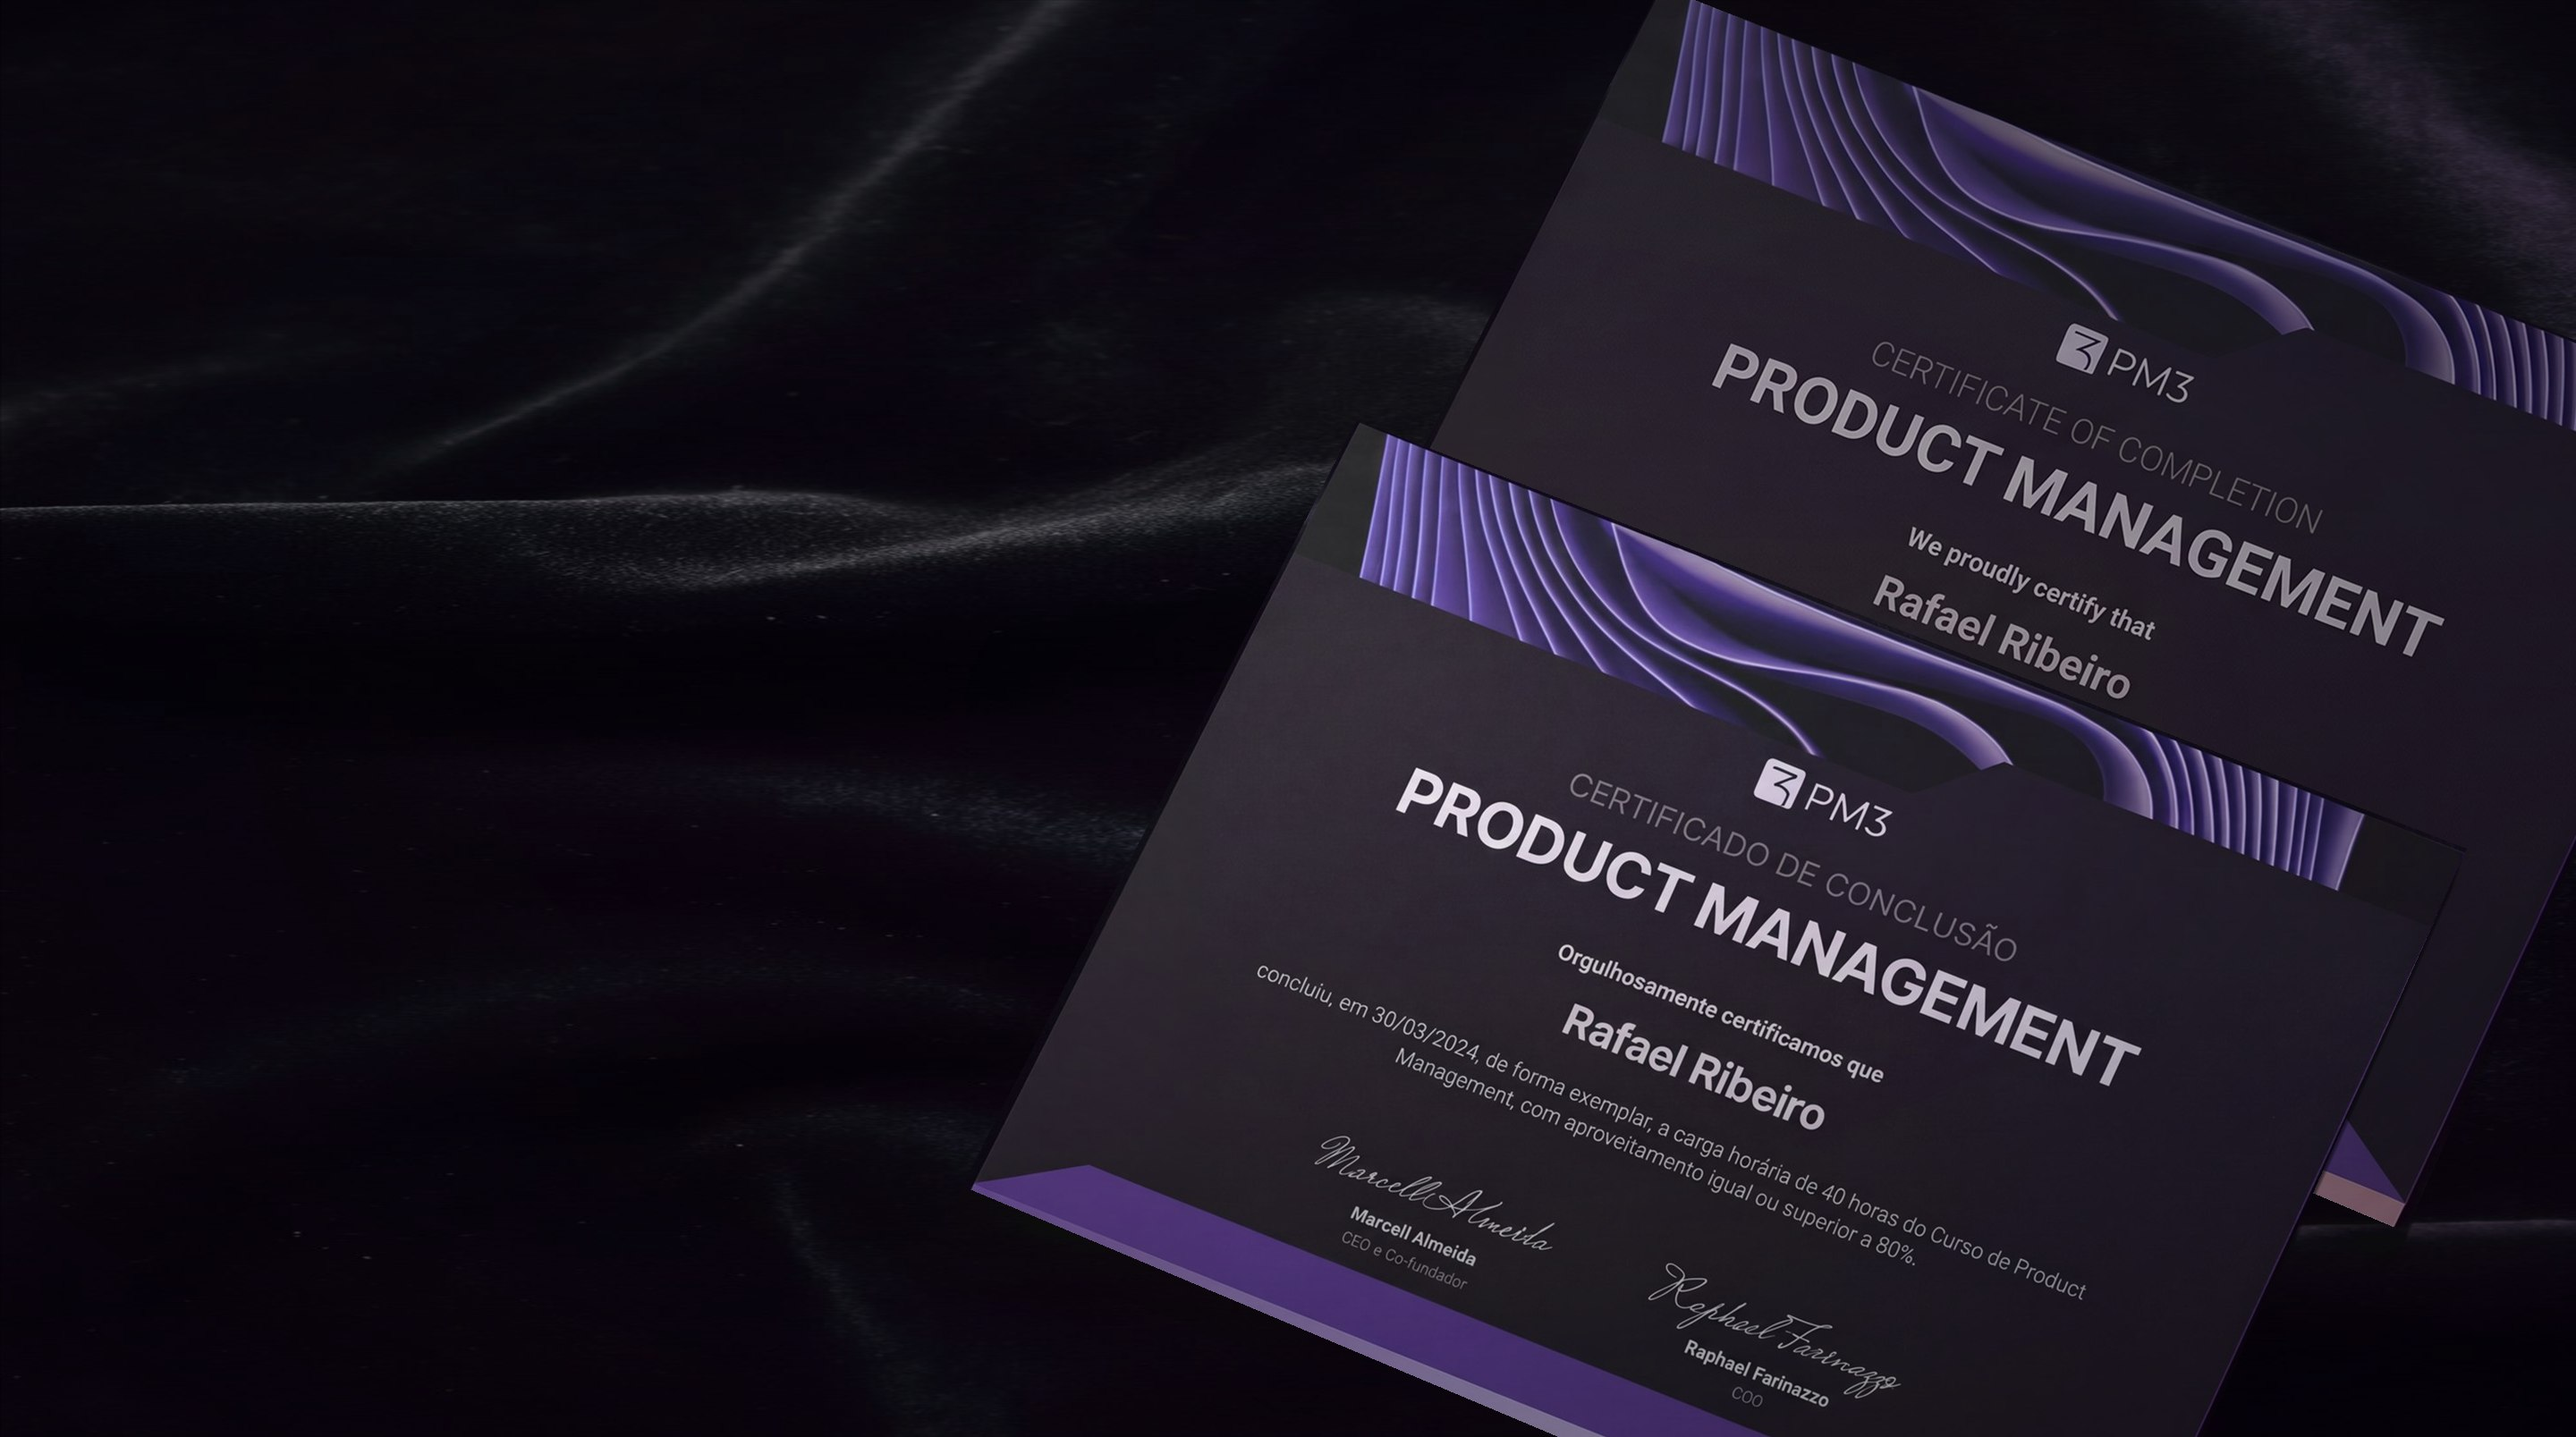
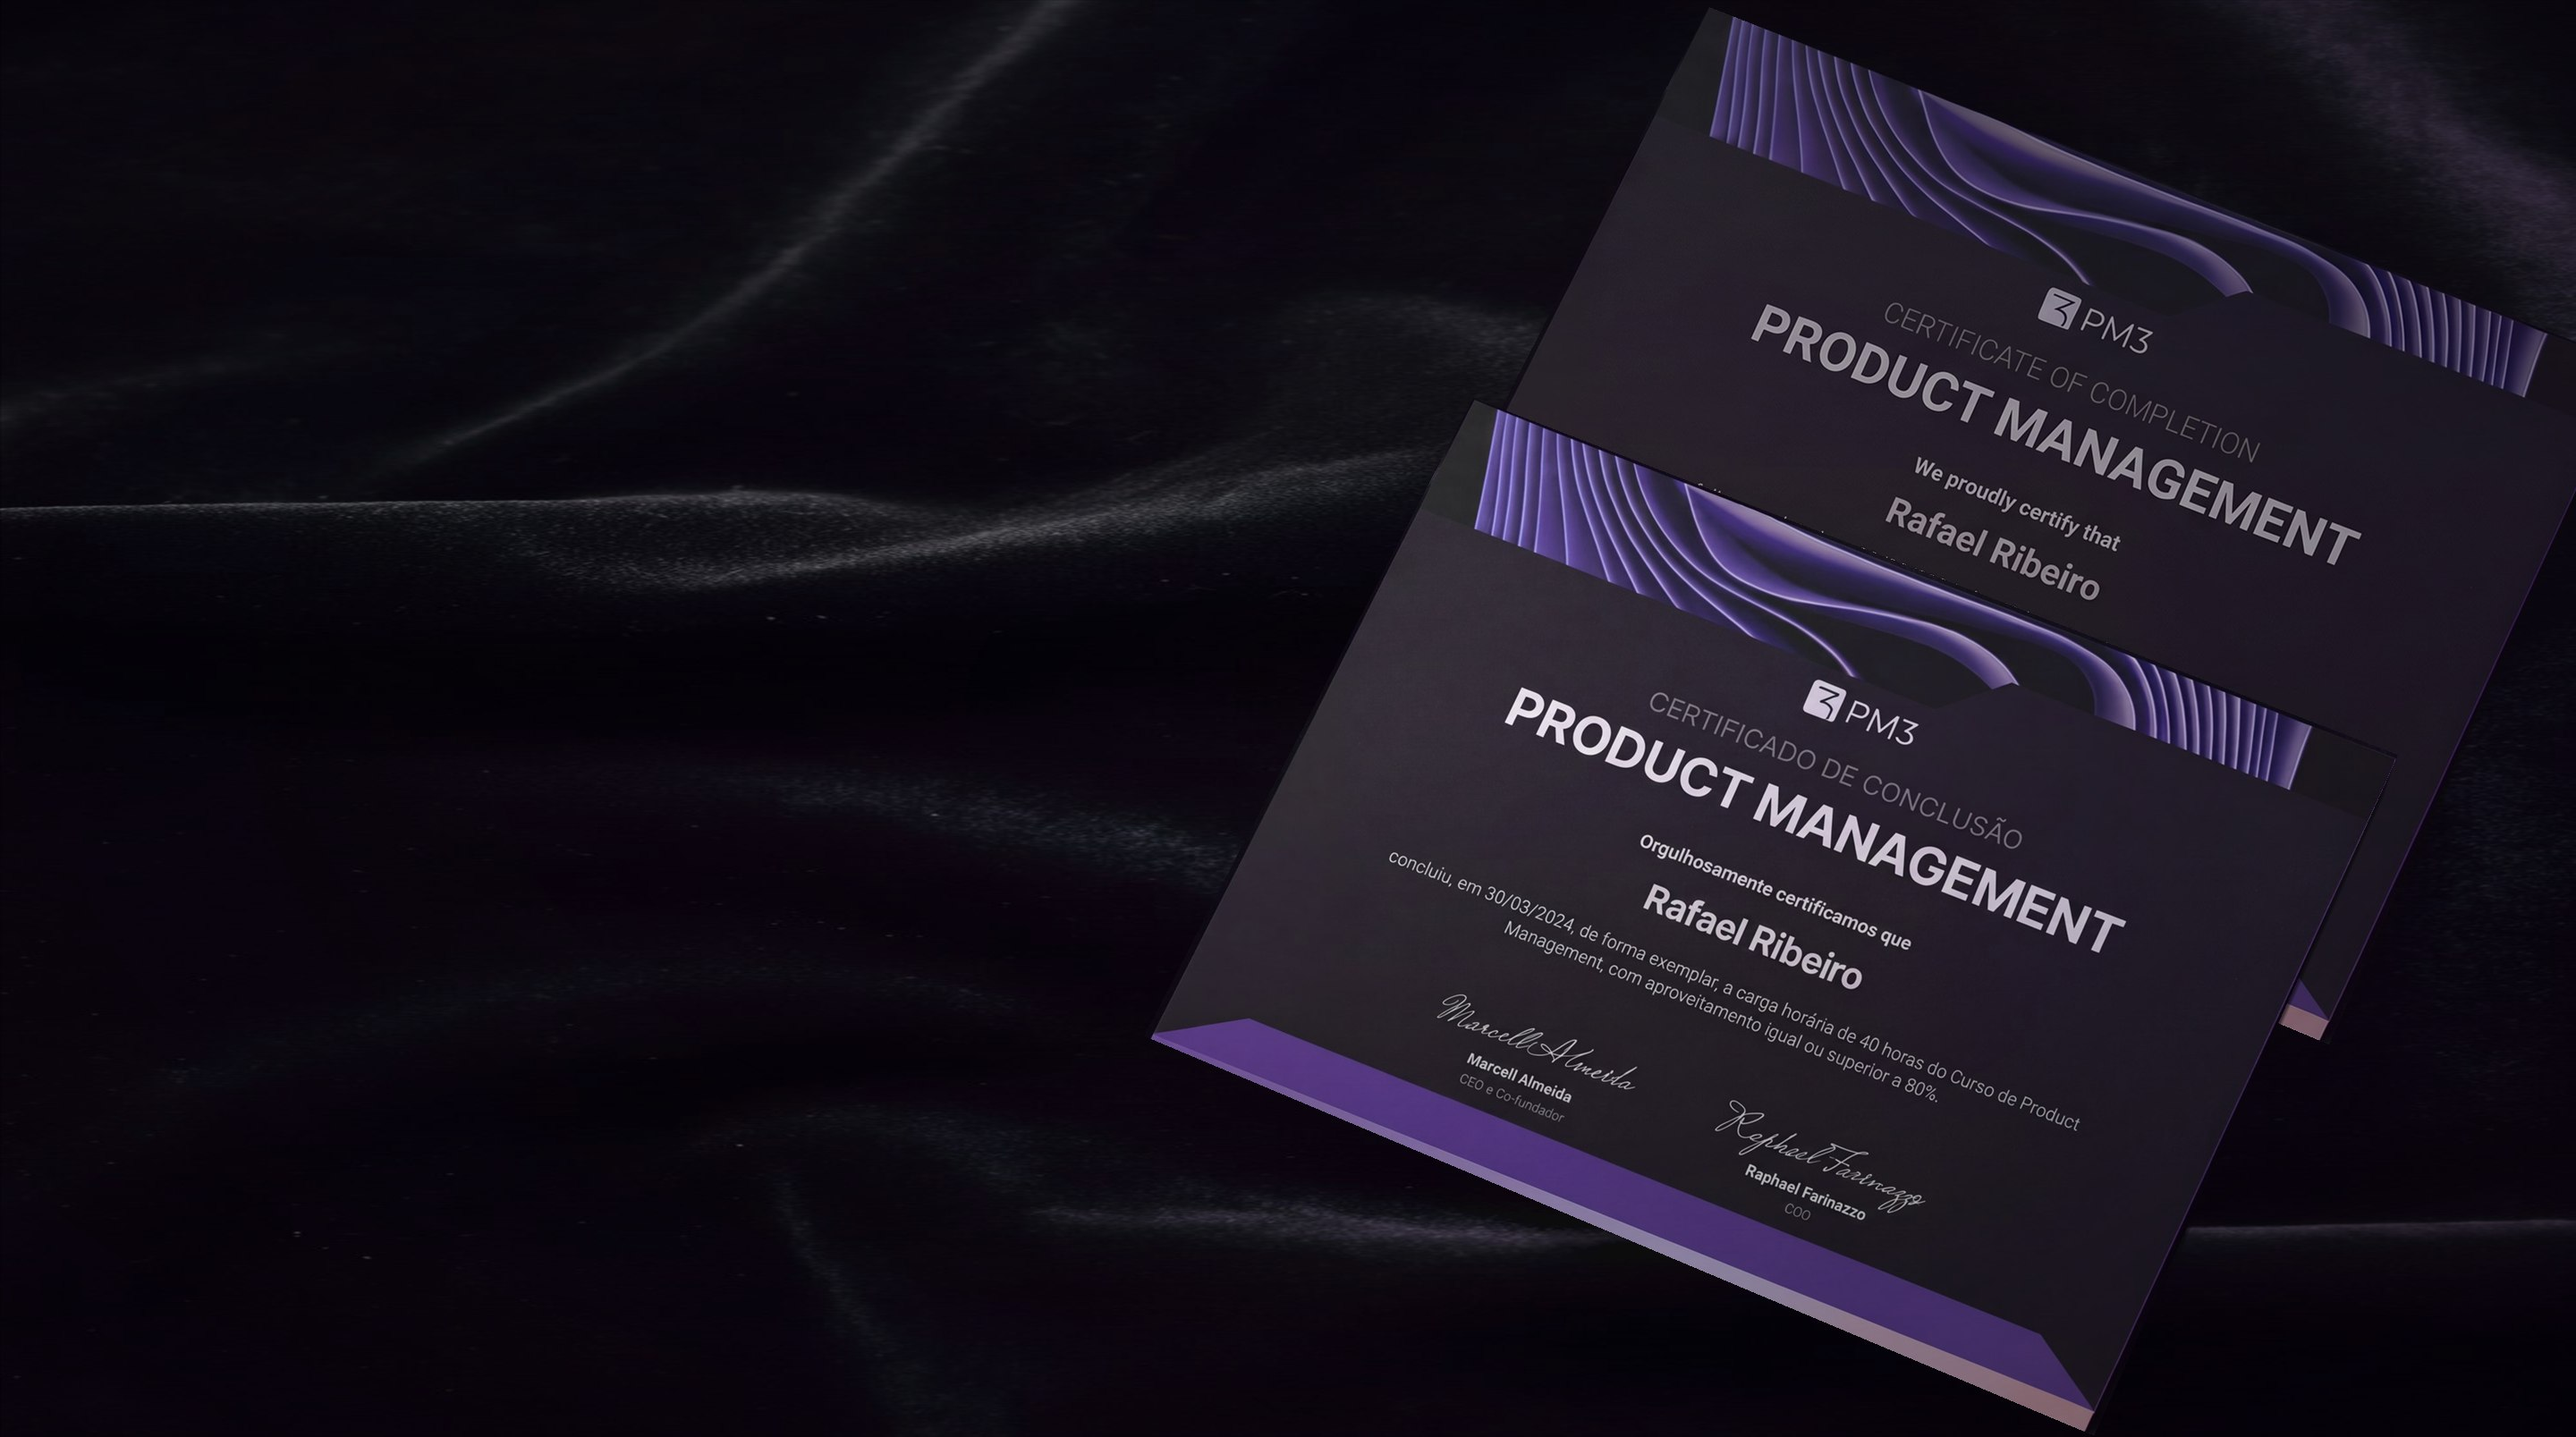
Certificado: enquadramento intermediário, os dois certificados inteiros e legíveis

diff --git a/home.html b/home.html
@@ -191,7 +191,7 @@
 
 <!-- 5 · CERTIFICADO (certificado.css, a mesma dobra do Membership) -->
 <section class="cx-sec on-dark" aria-labelledby="ce-t">
-  <div class="cx-hero cx-var cx-troca" id="cxTroca" style="--cert-full:url('../img/certificado-duo-pm.jpg?v=2');--cert-crop:url('../img/certificado-duo-pm-crop.jpg?v=2')" data-nota="Mockup do certificado de Product Management em português (frente) e inglês (atrás), montado a partir das artes reais.">
+  <div class="cx-hero cx-var cx-troca" id="cxTroca" style="--cert-full:url('../img/certificado-duo-pm.jpg?v=3');--cert-crop:url('../img/certificado-duo-pm-crop.jpg?v=3')" data-nota="Mockup do certificado de Product Management em português (frente) e inglês (atrás), montado a partir das artes reais.">
     <div class="wrap">
       <div class="cx-copy">
         <p class="kicker">Certificado PM3</p>

diff --git a/formacao-ai-product-builder.html b/formacao-ai-product-builder.html
@@ -247,7 +247,7 @@
 
 <!-- 7 · CERTIFICADO -->
 <section class="cx-sec on-dark" id="certificado" aria-labelledby="ce-t">
-  <div class="cx-hero cx-var" style="--cert-full:url('../img/certificado-duo-aipb.jpg?v=2');--cert-crop:url('../img/certificado-duo-aipb-crop.jpg?v=2')" data-nota="Mockup do certificado desta formação, em português (frente) e inglês (atrás).">
+  <div class="cx-hero cx-var" style="--cert-full:url('../img/certificado-duo-aipb.jpg?v=3');--cert-crop:url('../img/certificado-duo-aipb-crop.jpg?v=3')" data-nota="Mockup do certificado desta formação, em português (frente) e inglês (atrás).">
     <div class="wrap">
       <div class="cx-copy">
         <p class="kicker"><span class="n">06</span> Certificado</p>

diff --git a/formacao-ai-product-specialist.html b/formacao-ai-product-specialist.html
@@ -245,7 +245,7 @@
 
 <!-- 7 · CERTIFICADO -->
 <section class="cx-sec on-dark" id="certificado" aria-labelledby="ce-t">
-  <div class="cx-hero cx-var" style="--cert-full:url('../img/certificado-duo-aips.jpg?v=2');--cert-crop:url('../img/certificado-duo-aips-crop.jpg?v=2')" data-nota="Mockup do certificado desta formação, em português (frente) e inglês (atrás).">
+  <div class="cx-hero cx-var" style="--cert-full:url('../img/certificado-duo-aips.jpg?v=3');--cert-crop:url('../img/certificado-duo-aips-crop.jpg?v=3')" data-nota="Mockup do certificado desta formação, em português (frente) e inglês (atrás).">
     <div class="wrap">
       <div class="cx-copy">
         <p class="kicker"><span class="n">06</span> Certificado</p>
